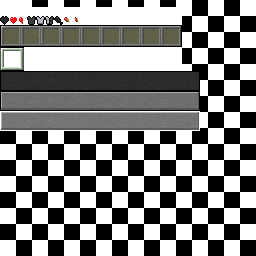
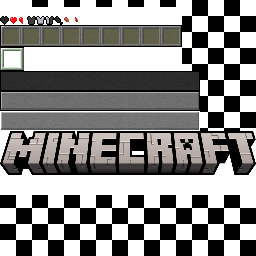
main menu

diff --git a/Sources/Menu.cpp b/Sources/Menu.cpp
@@ -15,12 +15,42 @@ Menu::~Menu( void )
 
 int Menu::main_menu( GLFWwindow *window )
 {
+	if (glfwGetMouseButton(window, GLFW_MOUSE_BUTTON_LEFT) == GLFW_PRESS) {
+		if (_selection == 1) { //singleplayer
+			_state = LOAD_MENU;
+			_selection = 0;
+			return (2);
+		} else if (_selection == 6) { //quit game
+			glfwSetWindowShouldClose(window, GL_TRUE);
+			return (-1);
+		}
+	}
 	if (glfwGetKey(window, GLFW_KEY_SPACE) == GLFW_PRESS) {
 		_state = LOAD_MENU;
+		_selection = 0;
 		return (2);
 	}
 
-	_text->displayText(WIN_WIDTH / 2 - 200, WIN_HEIGHT / 2 - 40, 24, glm::vec3(1.0f, 1.0f, 1.0f), "Press space to start");
+	setup_array_buffer_main();
+	glUseProgram(_shaderProgram);
+	glBindVertexArray(_vao);
+	glDrawArrays(GL_POINTS, 0, _nb_points);
+
+	_text->displayText(WIN_WIDTH / 2 - 220, WIN_HEIGHT / 2 - 120 * 3, 24, glm::vec3(1.0f, 1.0f, 1.0f), "Press space to start");
+
+	int mult = 3;
+	// shadows
+	_text->displayText(WIN_WIDTH / 2 - 110 + mult, WIN_HEIGHT / 2 - 10 * mult + 6 * mult + mult, 20, glm::vec3(0.0f, 0.0f, 0.0f), "Singleplayer");
+	_text->displayText(WIN_WIDTH / 2 - 100 + mult, WIN_HEIGHT / 2 + 15 * mult + 6 * mult + mult, 20, glm::vec3(0.0f, 0.0f, 0.0f), "Multiplayer");
+	_text->displayText(WIN_WIDTH / 2 - 150 + mult, WIN_HEIGHT / 2 + 40 * mult + 6 * mult + mult, 20, glm::vec3(0.0f, 0.0f, 0.0f), "Minecraft Realms");
+	_text->displayText(WIN_WIDTH / 2 - 50 * mult - 80 + mult, WIN_HEIGHT / 2 + 80 * mult + 6 * mult + mult, 20, glm::vec3(0.0f, 0.0f, 0.0f), "Options...");
+	_text->displayText(WIN_WIDTH / 2 + 50 * mult - 75 + mult, WIN_HEIGHT / 2 + 80 * mult + 6 * mult + mult, 20, glm::vec3(0.0f, 0.0f, 0.0f), "Quit Game");
+	// white
+	_text->displayText(WIN_WIDTH / 2 - 110, WIN_HEIGHT / 2 - 10 * mult + 6 * mult, 20, glm::vec3(1.0f, 1.0f, 1.0f), "Singleplayer");
+	_text->displayText(WIN_WIDTH / 2 - 100, WIN_HEIGHT / 2 + 15 * mult + 6 * mult, 20, glm::vec3(1.0f, 1.0f, 1.0f), "Multiplayer");
+	_text->displayText(WIN_WIDTH / 2 - 150, WIN_HEIGHT / 2 + 40 * mult + 6 * mult, 20, glm::vec3(1.0f, 1.0f, 1.0f), "Minecraft Realms");
+	_text->displayText(WIN_WIDTH / 2 - 50 * mult - 80, WIN_HEIGHT / 2 + 80 * mult + 6 * mult, 20, glm::vec3(1.0f, 1.0f, 1.0f), "Options...");
+	_text->displayText(WIN_WIDTH / 2 + 50 * mult - 75, WIN_HEIGHT / 2 + 80 * mult + 6 * mult, 20, glm::vec3(1.0f, 1.0f, 1.0f), "Quit Game");
 	return (0);
 }
 
@@ -53,6 +83,17 @@ int Menu::loading_screen( std::list<Chunk *> chunks, GLint render_dist )
 
 int Menu::pause_menu( GLFWwindow* window )
 {
+	if (glfwGetMouseButton(window, GLFW_MOUSE_BUTTON_LEFT) == GLFW_PRESS) {
+		if (_selection == 1) { //Back to Game
+			_esc_released = false;
+			_selection = 0;
+			return (1);
+		} else if (_selection == 8) { //Save and Quit to Title
+			_state = MAIN_MENU;
+			_selection = 0;
+			return (3);
+		}
+	}
 	if (_esc_released && glfwGetKey(window, GLFW_KEY_ESCAPE) == GLFW_PRESS) {
 		_esc_released = false;
 		return (1);
@@ -60,16 +101,14 @@ int Menu::pause_menu( GLFWwindow* window )
 		_esc_released = true;
 	}
 
-	if (!_vaoSet) {
-		setup_array_buffer();
-	}
+	setup_array_buffer_pause();
 	glUseProgram(_shaderProgram);
 	glBindVertexArray(_vao);
 	glDrawArrays(GL_POINTS, 0, _nb_points);
 
 	int mult = 3;
 	// first draw text shadow
-	_text->displayText(WIN_WIDTH / 2 - 100 + mult, WIN_HEIGHT / 2 - 60 * mult - 40 + mult, 24, glm::vec3(0.0f, 0.0f, 0.0f), "Game Menu");
+	// _text->displayText(WIN_WIDTH / 2 - 100 + mult, WIN_HEIGHT / 2 - 60 * mult - 40 + mult, 24, glm::vec3(0.0f, 0.0f, 0.0f), "Game Menu");
 	_text->displayText(WIN_WIDTH / 2 - 110 + mult, WIN_HEIGHT / 2 - 60 * mult + 6 * mult + mult, 20, glm::vec3(0.0f, 0.0f, 0.0f), "Back to Game");
 	_text->displayText(WIN_WIDTH / 2 - 50 * mult - 120 + mult, WIN_HEIGHT / 2 - 35 * mult + 6 * mult + mult, 20, glm::vec3(0.0f, 0.0f, 0.0f), "Advancements");
 	_text->displayText(WIN_WIDTH / 2 - 50 * mult - 125 + mult, WIN_HEIGHT / 2 - 10 * mult + 6 * mult + mult, 20, glm::vec3(0.0f, 0.0f, 0.0f), "Give Feedback");
@@ -90,6 +129,26 @@ int Menu::pause_menu( GLFWwindow* window )
 	_text->displayText(WIN_WIDTH / 2 + 50 * mult - 100, WIN_HEIGHT / 2 + 15 * mult + 6 * mult, 20, glm::vec3(1.0f, 1.0f, 1.0f), "Open to LAN");
 	_text->displayText(WIN_WIDTH / 2 - 200, WIN_HEIGHT / 2 + 40 * mult + 6 * mult, 20, glm::vec3(1.0f, 1.0f, 1.0f), "Save and Quit to Title");
 	return (0);
+}
+
+void Menu::setup_array_buffer_main( void )
+{
+	_nb_points = 8;
+	int mult = 3;
+    GLint vertices[] = { // pos: x y width height textcoord: x y width height
+        1, WIN_WIDTH / 2 - 129 * mult, WIN_HEIGHT / 2 - 104 * mult, 256 * mult, 64 * mult, 0, 131, 256, 64, // MINECRAFT
+
+        1, WIN_WIDTH / 2 - 100 * mult, WIN_HEIGHT / 2 - 10 * mult, 200 * mult, 20 * mult, 0, 91 + 20 * (_selection == 1), 200, 20, // Singleplayer
+        1, WIN_WIDTH / 2 - 100 * mult, WIN_HEIGHT / 2 + 15 * mult, 200 * mult, 20 * mult, 0, 71, 200, 20, // Multiplayer
+        1, WIN_WIDTH / 2 - 100 * mult, WIN_HEIGHT / 2 + 40 * mult, 200 * mult, 20 * mult, 0, 71, 200, 20, // Minecraft Realms
+
+        1, WIN_WIDTH / 2 - 125 * mult, WIN_HEIGHT / 2 + 80 * mult, 15 * mult, 20 * mult, 0, 71, 200, 20, // Lang settings
+        1, WIN_WIDTH / 2 - 100 * mult, WIN_HEIGHT / 2 + 80 * mult, 95 * mult, 20 * mult, 0, 71, 200, 20, // Options...
+        1, WIN_WIDTH / 2 + 5 * mult, WIN_HEIGHT / 2 + 80 * mult, 95 * mult, 20 * mult, 0, 91 + 20 * (_selection == 6), 200, 20, // Quit Game
+        1, WIN_WIDTH / 2 + 110 * mult, WIN_HEIGHT / 2 + 80 * mult, 15 * mult, 20 * mult, 0, 71, 200, 20, // accessibility settings
+    };
+
+	setup_shader(vertices);
 }
 
 void Menu::setup_array_buffer_load( int completion )
@@ -158,44 +217,34 @@ void Menu::setup_array_buffer_load( int completion )
 		}
 	}
 
-	glGenVertexArrays(1, &_vao);
-    glBindVertexArray(_vao);
-
-	glGenBuffers(1, &_vbo);
-	glBindBuffer(GL_ARRAY_BUFFER, _vbo);
-	glBufferData(GL_ARRAY_BUFFER, _nb_points * 9 * sizeof(GLint), vertices, GL_STATIC_DRAW);
-
+	setup_shader(vertices);
 	delete [] vertices;
-
-    glEnableVertexAttribArray(UI_ATLASATTRIB);
-	glVertexAttribIPointer(UI_ATLASATTRIB, 1, GL_INT, 9 * sizeof(GLint), 0);
-
-    glEnableVertexAttribArray(UI_POSATTRIB);
-	glVertexAttribIPointer(UI_POSATTRIB, 4, GL_INT, 9 * sizeof(GLint), (void *)(sizeof(GLint)));
-	
-	glEnableVertexAttribArray(UI_TEXATTRIB);
-	glVertexAttribIPointer(UI_TEXATTRIB, 4, GL_INT, 9 * sizeof(GLint), (void *)(5 * sizeof(GLint)));
-
-	check_glstate("NO");
 }
 
-void Menu::setup_array_buffer( void )
+void Menu::setup_array_buffer_pause( void )
 {
 	_nb_points = 9;
 	int mult = 3;
     GLint vertices[] = { // pos: x y width height textcoord: x y width height
 		1, 0, 0, WIN_WIDTH, WIN_HEIGHT, 3, 29, 1, 1, // occult window
-        1, WIN_WIDTH / 2 - 100 * mult, WIN_HEIGHT / 2 - 60 * mult, 200 * mult, 20 * mult, 0, 91, 200, 20, // Back to Game
-        1, WIN_WIDTH / 2 - 100 * mult, WIN_HEIGHT / 2 - 35 * mult, 95 * mult, 20 * mult, 0, 91, 200, 20, // Advancements
-        1, WIN_WIDTH / 2 - 100 * mult, WIN_HEIGHT / 2 - 10 * mult, 95 * mult, 20 * mult, 0, 91, 200, 20, // Give Feedback
-        1, WIN_WIDTH / 2 - 100 * mult, WIN_HEIGHT / 2 + 15 * mult, 95 * mult, 20 * mult, 0, 91, 200, 20, // Options...
-        1, WIN_WIDTH / 2 + 5 * mult, WIN_HEIGHT / 2 - 35 * mult, 95 * mult, 20 * mult, 0, 91, 200, 20, // Statistics
-        1, WIN_WIDTH / 2 + 5 * mult, WIN_HEIGHT / 2 - 10 * mult, 95 * mult, 20 * mult, 0, 91, 200, 20, // Report Bugs
-        1, WIN_WIDTH / 2 + 5 * mult, WIN_HEIGHT / 2 + 15 * mult, 95 * mult, 20 * mult, 0, 91, 200, 20, // Open to LAN
-        1, WIN_WIDTH / 2 - 100 * mult, WIN_HEIGHT / 2 + 40 * mult, 200 * mult, 20 * mult, 0, 91, 200, 20, // Save and Quit to Title
+        1, WIN_WIDTH / 2 - 100 * mult, WIN_HEIGHT / 2 - 60 * mult, 200 * mult, 20 * mult, 0, 91 + 20 * (_selection == 1), 200, 20, // Back to Game
 
+        1, WIN_WIDTH / 2 - 100 * mult, WIN_HEIGHT / 2 - 35 * mult, 95 * mult, 20 * mult, 0, 71, 200, 20, // Advancements
+        1, WIN_WIDTH / 2 - 100 * mult, WIN_HEIGHT / 2 - 10 * mult, 95 * mult, 20 * mult, 0, 71, 200, 20, // Give Feedback
+        1, WIN_WIDTH / 2 - 100 * mult, WIN_HEIGHT / 2 + 15 * mult, 95 * mult, 20 * mult, 0, 71, 200, 20, // Options...
+
+        1, WIN_WIDTH / 2 + 5 * mult, WIN_HEIGHT / 2 - 35 * mult, 95 * mult, 20 * mult, 0, 71, 200, 20, // Statistics
+        1, WIN_WIDTH / 2 + 5 * mult, WIN_HEIGHT / 2 - 10 * mult, 95 * mult, 20 * mult, 0, 71, 200, 20, // Report Bugs
+        1, WIN_WIDTH / 2 + 5 * mult, WIN_HEIGHT / 2 + 15 * mult, 95 * mult, 20 * mult, 0, 71, 200, 20, // Open to LAN
+
+        1, WIN_WIDTH / 2 - 100 * mult, WIN_HEIGHT / 2 + 40 * mult, 200 * mult, 20 * mult, 0, 91 + 20 * (_selection == 8), 200, 20, // Save and Quit to Title
     };
 
+	setup_shader(vertices);
+}
+
+void Menu::setup_shader( GLint *vertices )
+{
 	glGenVertexArrays(1, &_vao);
     glBindVertexArray(_vao);
 	_vaoSet = true;
@@ -220,10 +269,31 @@ void Menu::setup_array_buffer( void )
 //                                Public                                      //
 // ************************************************************************** //
 
-void Menu::processMouseMovement( float x_offset, float y_offset )
+void Menu::processMouseMovement( float posX, float posY )
 {
-	(void)x_offset;
-	(void)y_offset;
+	if (_state == MAIN_MENU) {
+		int mult = 3;
+		if (posX >= WIN_WIDTH / 2 - 100 * mult && posX <= WIN_WIDTH / 2 - 100 * mult + 200 * mult
+			&& posY >= WIN_HEIGHT / 2 - 10 * mult && posY <= WIN_HEIGHT / 2 - 10 * mult + 20 * mult) {
+			_selection = 1;
+		} else if (posX >= WIN_WIDTH / 2 + 5 * mult && posX <= WIN_WIDTH / 2 + 5 * mult + 95 * mult
+			&& posY >= WIN_HEIGHT / 2 + 80 * mult && posY <= WIN_HEIGHT / 2 + 80 * mult + 20 * mult) {
+			_selection = 6;
+		} else {
+			_selection = 0;
+		}
+	} else if (_state == PAUSE_MENU) {
+		int mult = 3;
+		if (posX >= WIN_WIDTH / 2 - 100 * mult && posX <= WIN_WIDTH / 2 - 100 * mult + 200 * mult
+			&& posY >= WIN_HEIGHT / 2 - 60 * mult && posY <= WIN_HEIGHT / 2 - 60 * mult + 20 * mult) {
+			_selection = 1;
+		} else if (posX >= WIN_WIDTH / 2 - 100 * mult && posX <= WIN_WIDTH / 2 - 100 * mult + 200 * mult
+			&& posY >= WIN_HEIGHT / 2 + 40 * mult && posY <= WIN_HEIGHT / 2 + 40 * mult + 20 * mult) {
+			_selection = 8;
+		} else {
+			_selection = 0;
+		}
+	}
 }
 
 void Menu::setShaderProgram( GLuint shaderProgram )
@@ -245,7 +315,7 @@ int Menu::run( GLFWwindow* window, std::list<Chunk *> chunks, GLint render_dist 
 {
 	if (glfwGetKey(window, GLFW_KEY_BACKSPACE) == GLFW_PRESS) {
 		glfwSetWindowShouldClose(window, GL_TRUE);
-		return (1);
+		return (-1);
 	}
 
 	switch (_state) {

diff --git a/Includes/Menu.hpp b/Includes/Menu.hpp
@@ -13,21 +13,23 @@ class Menu
 	    GLuint _vao, _vbo;
 		GLuint _shaderProgram;
 		// GLuint *_textures;
-        GLint _nb_points, _state;
+        GLint _nb_points, _state, _selection;
 		bool _vaoSet, _esc_released;
 		Text *_text;
 
 		int main_menu( GLFWwindow* window );
 		int loading_screen( std::list<Chunk *> chunks, GLint render_dist );
 		int pause_menu( GLFWwindow* window );
+        void setup_array_buffer_main( void );
 		void setup_array_buffer_load( int completion );
-        void setup_array_buffer( void );
+        void setup_array_buffer_pause( void );
+		void setup_shader( GLint *vertices );
 
 	public:
 		Menu( Text *text );
 		~Menu( void );
 
-		void processMouseMovement( float x_offset, float y_offset );
+		void processMouseMovement( float posX, float posY );
 		void setShaderProgram( GLuint shaderProgram );
 		void setState( int state );
 		int getState( void );

diff --git a/Sources/callbacks.cpp b/Sources/callbacks.cpp
@@ -30,7 +30,7 @@ void cursor_position_callback( GLFWwindow* window, double xpos, double ypos )
 	if (camera) {
 		camera->processMouseMovement(x_offset / 10, y_offset / 10);
 	} else if (menu) {
-		menu->processMouseMovement(x_offset / 10, y_offset / 10);
+		menu->processMouseMovement(xpos, ypos);
 	}
 }
 
